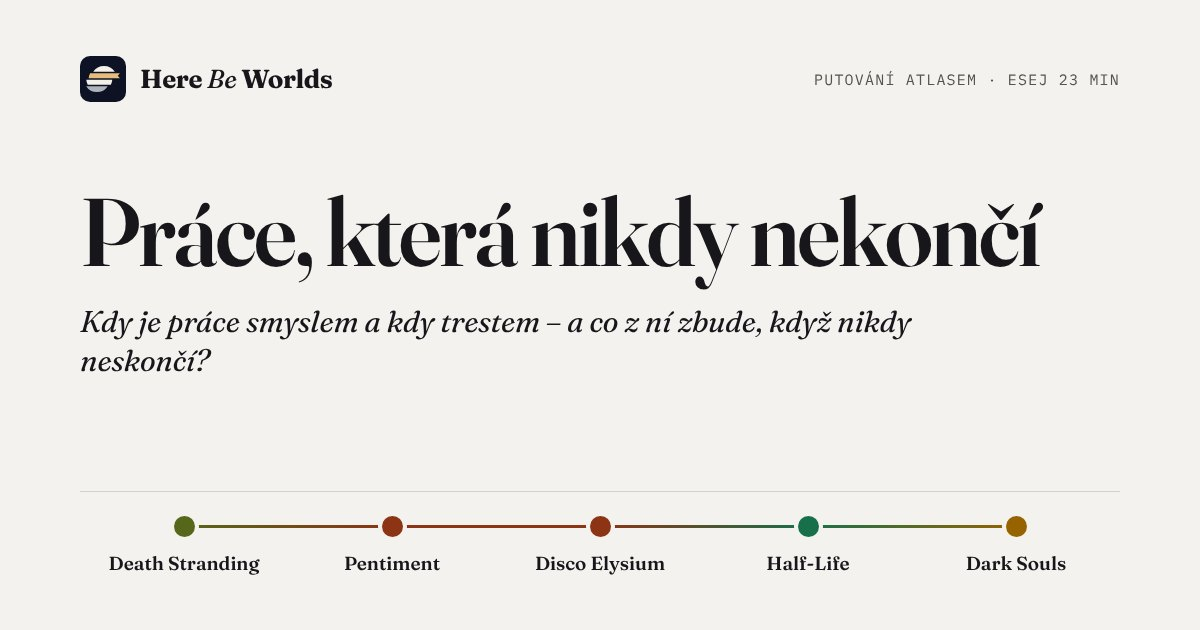
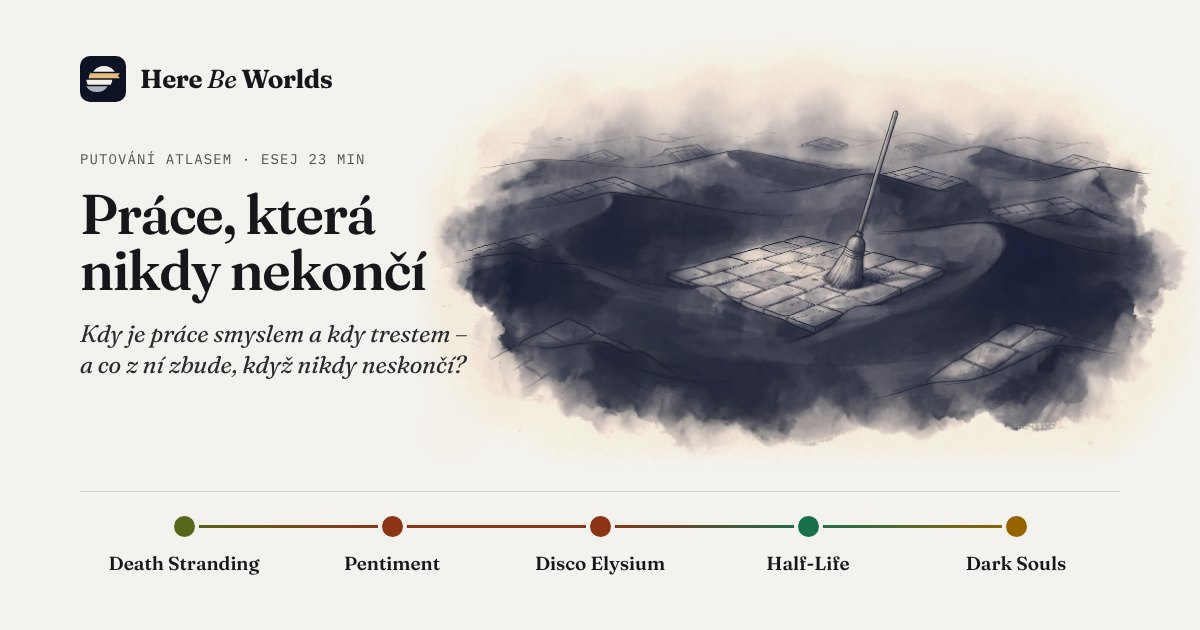
Obrázky k putování Práce, která nikdy nekončí: koště a zavátá dlažba, píchačky u hřbitova, balíky u rozpadlého domu; pravidlo o Mood a Composition u velkých scén
Claude-Session: https://claude.ai/code/session_01B7obWLKHHEWxurZ5a1svnf

diff --git a/src/lib/trail-images.ts b/src/lib/trail-images.ts
@@ -32,6 +32,7 @@ export const READY: Record<TrailId, number> = {
   laughter: 3,
   'chronicle-keepers': 3,
   copies: 3,
+  'endless-work': 3,
 };
 
 const DIR = 'putovani-obrazky';

diff --git a/docs/obrazky-putovani.md b/docs/obrazky-putovani.md
@@ -12,8 +12,9 @@ Stav 2026-11-23: styl nalezený po pěti kolech zkoušek (náhled `/putovani/nav
 - **Víc motivů k objevování:** hlavní tvar ať je složený z několika nečekaných předmětů, které člověk objeví až při delším pohledu (vzor: most z dlažby, kořenů, copů a šňůr s prádlem; majitel 2026-11-23). Jen když dávají jednomu tvaru smysl, nikdy jako výčet symbolů tématu.
 - **Zadání pro motivy: odvaha, surrealismus, silná myšlenka (majitel 2026-11-26, po Logu nad troskami, „zdaleka nejlepší série“):** motivy střídat a nebát se odvážných, i absurdních nápadů, i když se špatně převádějí do obrázku. Surrealisticky, ne doslovně; obraz má mít rafinovanost a silnou myšlenku, klidně i složitější. Majiteli se líbí satira a ironie. Co fungovalo: obyčejný, všem známý předmět nebo stavba na špatném místě nebo z nepatřičné látky, takže z něj je paradox, který se čte na první pohled (parkovací automaty místo náhrobků, atomový hřib jako kancelářská budova s trávníkem, mraky na provázku s cenovkou), a jedna velká čitelná silueta. Nevyšlo: guma (vypadala jako pilulka, vygumovaná půlka zůstala nakreslená) a razítko (otisk jako položená fotka). Gemini nezvládá změnu jednoho obrazu ve druhý na ploše, zvládá předmět na nečekaném místě.
 - **Styl neujíždět (majitel 2026-11-26, u Smíchu nad propastí):** styl držet podle série Logo nad troskami. Ve scéně nejmenovat barvy ani materiály (ne „červený provaz“, „rezavý stůl“, „lesklé balonky“, „mosazný zvonek“): Gemini je bere doslova a přebijí monochromní tuš. Scéna dvě až tři věty, hlavní tvar a jeden detail, ne výčet předmětů; dlouhá scéna táhne kresbu k čisté komiksové ilustraci a mlha mizí. Pokaždé nový chat a vždy stejný vzor `25-styl-vicko.jpg`, nikdy nový obrázek jako vzor. Pozor (majitel 2026-11-26 odpoledne, styl i barvy zase ujely): příčinou bylo, že Claude u každého promptu přepisoval i řádky Mood, Composition a Avoid (vlastní nálady, dlouhé seznamy zákazů včetně „cartoon, comic-book style…“, které Gemini spíš navedou). **Prompt je vždy přesně šablona z oddílu Jak generovat a mění se jen řádek Scene**; nálada se vyjádří uvnitř Scene, ne vlastním Mood.
+- **Mood a Composition u velkých scén (majitel 2026-11-26, Práce, která nikdy nekončí):** šablona v oddílu Jak generovat (Mood „jedna myšlenka nesená jedním malým předmětem“, Composition „detail nebo polocelek“) patří jen ke scénám s jedním předmětem. U velké scény (brána hřbitova s plotem, dům, krajina) psát Mood a Composition na míru jako u série Logo nad troskami, Style a Colour nikdy neměnit. Po nezdaru nepřidávat do scény další požadavky (ciferník bez ručiček, jedna díra v každé kartě, dva stojany…): scéna pak bývá horší; spíš se vrátit k nejjednodušší verzi, která fungovala.
 - **Neopakovat se, nečekaný znepokojivý detail (majitel 2026-11-25, u Prokletého dědictví):** napříč putováními se začaly opakovat stejné rekvizity (klíčky, zrcadla, obrazy, botičky, stopy) a majitel to zamítl: „chce to přijít s něčím nečekaným, a o to víc znepokojivým, musí tam být nějaký nečekaný moment, detail“. Vzor: kolébka s korunou, jejíž stín na zdi je rakev. Postup: obyčejný předmět (domácí, dětský, rodinný), který na první pohled nic nenaznačuje, a jediný detail, který ho na druhý pohled převrátí. Před návrhem motivů projít seznam níže a nesáhnout po ničem, co v něm už je; když se rekvizita přece jen hodí, říct to majiteli předem. Témata smějí být temná a zlověstná, bez krve a násilí (v promptu `Avoid: … gore`; u temných putování Mood „ominous surrealism … heavy with dread“ místo „quiet“).
-- **Už použité rekvizity (doplňovat po každém putování):** klíče a klíčové dírky (klíč stočený do kruhu, měsíc jako klíčová dírka) · zrcadla (rukavice a zrcátko, zamlžené zrcadlo) · obrazy a rámy (stín, který vypadl z obrazu) · boty a stopy (stopy ve sněhu, prázdné boty u žebříku) · prázdné oděvy (plášť na trůnu, kabát ukazující cestu, rukavice) · žebra a kosti jako stavivo (katedrála ze žeber, jablko se žebry) · trůny (plášť na trůnu, trůn s břízou) · knihy, deníky a dopisy (postavička z knihy, můra z deníku, dopisy z hlavy sochy, hranice srolovaných dopisů) · hodiny (kavalerie z rozbitých hodin) · světla (lucerna, svíčka, oheň u gramofonu) · koště a brky (koště z brků) · kouř (sirka z kouře, beránek z kouře) · nábytek a pokoje (křesla za sklem, okno s pokojem na pláni, koberec nad jámou) · stín jako odhalení (stín klíče, stín z obrazu, stín chapadel u pulce, stín rakve u kolébky) · ostatní: městečko na jevišti s roztrženým nebem, vajíčko ve vajíčku, kamenné víčko, domy otáčející se za chodcem, most z dlažby, kořenů, copů a prádla, prapory z hejn ptáků, kolotoč z děl, žebřík opřený o nebe, gramofon s hvězdami, sklenice s pulcem, mince na hraně, řetěz s dětským poutem, šperkovnice s mléčnými zuby, koleje a výhybka (smyčka jako oko), obojek s vodítkem do mraků, trhací kalendář s prázdnými listy, hostina v dunách, schodiště zpět do země, zazděný oblouk s pěšinou kolem, atomový hřib jako budova, parkovací automaty jako náhrobky, mraky na provázku s cenovkami, banánová slupka nad propastí, ostnatý plot s girlandami a balonky, úsměv na zamlženém okénku, socha s vyměnitelnou hlavou, stohy ze skartovaného papíru, psací stroj s papírovou cestou, dva měsíce s jedním odrazem, pampeliška z pampelišek, kohout vyměněný s korouhví (a kolébka v seznamu stínů). Zkoušené a zamítnuté u svobodné vůle: hrací skříňka s baletkou, kostka ve vzduchu, piliny s magnetem (třikrát nevyšlo), budka zatlučená zevnitř. U Ráje: hradby obrácené dovnitř (vyšel obyčejný hrad), maják na dně (vypadá jako zatopený katastrofou), ráj pod skleněným zvonem (vypadá jako sněžítko), fontána s pískem (písek vypadá jako voda), kryt s pentlí (dveře jako trezor z Falloutu). U Smíchu nad propastí: pochod natahovacích zubů a jednokolka na girlandě přes rokli (dobré, ale znovu skály a propast), čertík v krabičce (barevný), kartotéka s vesmírem (digitální jiskry), past s konfetami, plynová maska s úsměvem, socha v šaškovské čepici (komiks), přepážka v bouři (červený provaz), balonkový pes v pitevně (lesklý), hráz z gumových kachniček (výborná, záloha), roztržené šapitó, rakev s frkačkou (frkačka jako svitek), skákací hrad (věžičky jako rakety). U Kopie bez originálu: Thésseova loď (prkna nepoznat, hnědá), kopírka s řadou dubů (kopírka už byla u skartovačky), kukaččí vejce (klišé), roubovaná jabloň (přeplácaná), řetěz papírových postav, dva hroby (bez druhé vrstvy), otisky prstů, stožár s větví, sbírka motýlů, láhev s přístavem. U Kdo drží kroniku: mapa se skalpelem (kruhová díra), inkoust zpod archivu (teče z kopce, archiv nepoznat), archeologický řez pod slavností, pomník s vysekanou postavou, odloupnutá tapeta (jakoby na stropě), vykrajovátko na hrdiny (čistá ilustrace), pevnost z knih, puzzle s kladivem, brk nad bojištěm (silný, ale prázdný; verze s přilbami a vavřínem moc světlá). Styl ujížděl, když se do šablony přidal řádek navíc („loose sketch“): obraz zesvětlal; šablonu neměnit, jen řádek Scene. U Loga nad troskami: guma (pilulka), razítko (otisk jako fotka), mravenčí farma s byty (doslovná, záloha). Poučení (majitel 2026-11-25): u celků musí být paradox hlavní tvar a číst se na první pohled; nic ze skutečného světa (Vítězný oblouk z Paříže zamítnut).
+- **Už použité rekvizity (doplňovat po každém putování):** klíče a klíčové dírky (klíč stočený do kruhu, měsíc jako klíčová dírka) · zrcadla (rukavice a zrcátko, zamlžené zrcadlo) · obrazy a rámy (stín, který vypadl z obrazu) · boty a stopy (stopy ve sněhu, prázdné boty u žebříku) · prázdné oděvy (plášť na trůnu, kabát ukazující cestu, rukavice) · žebra a kosti jako stavivo (katedrála ze žeber, jablko se žebry) · trůny (plášť na trůnu, trůn s břízou) · knihy, deníky a dopisy (postavička z knihy, můra z deníku, dopisy z hlavy sochy, hranice srolovaných dopisů) · hodiny (kavalerie z rozbitých hodin) · světla (lucerna, svíčka, oheň u gramofonu) · koště a brky (koště z brků) · kouř (sirka z kouře, beránek z kouře) · nábytek a pokoje (křesla za sklem, okno s pokojem na pláni, koberec nad jámou) · stín jako odhalení (stín klíče, stín z obrazu, stín chapadel u pulce, stín rakve u kolébky) · ostatní: městečko na jevišti s roztrženým nebem, vajíčko ve vajíčku, kamenné víčko, domy otáčející se za chodcem, most z dlažby, kořenů, copů a prádla, prapory z hejn ptáků, kolotoč z děl, žebřík opřený o nebe, gramofon s hvězdami, sklenice s pulcem, mince na hraně, řetěz s dětským poutem, šperkovnice s mléčnými zuby, koleje a výhybka (smyčka jako oko), obojek s vodítkem do mraků, trhací kalendář s prázdnými listy, hostina v dunách, schodiště zpět do země, zazděný oblouk s pěšinou kolem, atomový hřib jako budova, parkovací automaty jako náhrobky, mraky na provázku s cenovkami, banánová slupka nad propastí, ostnatý plot s girlandami a balonky, úsměv na zamlženém okénku, socha s vyměnitelnou hlavou, stohy ze skartovaného papíru, psací stroj s papírovou cestou, dva měsíce s jedním odrazem, pampeliška z pampelišek, kohout vyměněný s korouhví, koště a zavátá dlažba v dunách, píchačky u hřbitova, balíky u rozpadlého domu (a kolébka v seznamu stínů). Zkoušené a zamítnuté u svobodné vůle: hrací skříňka s baletkou, kostka ve vzduchu, piliny s magnetem (třikrát nevyšlo), budka zatlučená zevnitř. U Ráje: hradby obrácené dovnitř (vyšel obyčejný hrad), maják na dně (vypadá jako zatopený katastrofou), ráj pod skleněným zvonem (vypadá jako sněžítko), fontána s pískem (písek vypadá jako voda), kryt s pentlí (dveře jako trezor z Falloutu). U Smíchu nad propastí: pochod natahovacích zubů a jednokolka na girlandě přes rokli (dobré, ale znovu skály a propast), čertík v krabičce (barevný), kartotéka s vesmírem (digitální jiskry), past s konfetami, plynová maska s úsměvem, socha v šaškovské čepici (komiks), přepážka v bouři (červený provaz), balonkový pes v pitevně (lesklý), hráz z gumových kachniček (výborná, záloha), roztržené šapitó, rakev s frkačkou (frkačka jako svitek), skákací hrad (věžičky jako rakety). U Práce, která nikdy nekončí: jehla sešívající trhlinu v zemi (dobrá, nevybraná), kancelářská židle s koulí na řetězu (klišé), kolo pro křečka nad městem, hora balíků se stromem (vánoční stromeček, levitující balíky), stopy k domu (klišé, stopy už máme), pluh na moři, zeď stavěná a rozpadající se, sekera obroušená na pahýl. Píchačky šly až napotřetí, když se scéna vrátila k nejjednodušší podobě. U Kopie bez originálu: Thésseova loď (prkna nepoznat, hnědá), kopírka s řadou dubů (kopírka už byla u skartovačky), kukaččí vejce (klišé), roubovaná jabloň (přeplácaná), řetěz papírových postav, dva hroby (bez druhé vrstvy), otisky prstů, stožár s větví, sbírka motýlů, láhev s přístavem. U Kdo drží kroniku: mapa se skalpelem (kruhová díra), inkoust zpod archivu (teče z kopce, archiv nepoznat), archeologický řez pod slavností, pomník s vysekanou postavou, odloupnutá tapeta (jakoby na stropě), vykrajovátko na hrdiny (čistá ilustrace), pevnost z knih, puzzle s kladivem, brk nad bojištěm (silný, ale prázdný; verze s přilbami a vavřínem moc světlá). Styl ujížděl, když se do šablony přidal řádek navíc („loose sketch“): obraz zesvětlal; šablonu neměnit, jen řádek Scene. U Loga nad troskami: guma (pilulka), razítko (otisk jako fotka), mravenčí farma s byty (doslovná, záloha). Poučení (majitel 2026-11-25): u celků musí být paradox hlavní tvar a číst se na první pohled; nic ze skutečného světa (Vítězný oblouk z Paříže zamítnut).
 - **Světlo:** výchozí je **čistě modrá tuš bez zlaté**. Zlatá (#E5BE7E) jen výjimečně, když ji řádek scény výslovně jmenuje a je jádrem motivu (klíčová dírka na nebi, oheň u gramofonu). Gemini jinak zlatou přidává sám (okénka, lucerny), protože ji má vzorový obrázek: proto prompt výslovně zakazuje převzít lampu ze vzoru (majitel 2026-11-23: „pořád stejné rozsvícené okýnko a lucerna“).
 - **Motiv:** detail nebo polocelek, ne velká scéna. Obraz s druhým čtením: na první pohled obyčejný, na druhý nese otázku eseje. Prázdný prostor kolem.
 - **Nikdy:** text, písmena, podpisy, rámečky; postavy, loga a místa z her; náboženské symboly; lidé (nanejvýš drobná postava zezadu, když to motiv potřebuje); cákance tuše; airbrush; uhlazená digitální linka.
@@ -25,7 +26,7 @@ Stav 2026-11-23: styl nalezený po pěti kolech zkoušek (náhled `/putovani/nav
 - Masky: `maska/<slug>-N.png` podle tuše pro tmavý motiv (`python3 scripts/ink-masks.py`, pak zkopírovat z `navrh-obrazku/maska/`, nebo upravit cestu ve skriptu), `maska/freska.png` obecná.
 - Které putování obrázky má: `READY` v `src/lib/trail-images.ts`. Obrázky se ukážou jen u schválené eseje.
 - Rejstřík `/putovani/` má rozvržení karet ve dvou sloupcích s obrázkem nahoře (C, vybráno ze tří variant: A obraz za textem, B střídavé desky). Obrázek v kartě je v obou motivech stejný: celý 16 : 9 bez ořezu, 90 % šířky karty, odstup nahoře a dole (majitel 2026-11-26); ve světlém motivu s maskou podle tuše (rozkreslené okraje jako v eseji), v tmavém jen fresková maska do ztracena. Dokud nemají obrázky všechna putování, stojí vedle karty s obrázkem textové karty.
-- Na webu (2026-11-23): Hra ví, že ji hraješ (městečko na jevišti s roztrženým namalovaným nebem; postavička vylezlá z ilustrace v knize; stín, který vypadl z obrazu na podlahu); Na mrtvole boha (tři: prázdný plášť na trůnu držený provazy davu; trůn, kterým prorůstá bříza; jablko s žebry místo jádřince); Netvor v zrcadle (zatím jeden: stopy ve sněhu, které se z bot mění v tlapy); Mluví už jen mrtví (tři: prázdný kabát, který ukazuje cestu; můra s křídly z deníku; potopená hlava sochy, z níž stoupají listy dopisu k loďce); Uvězněni v kruhu (tři: klíč stočený do kruhu se stínem rovného klíče; vajíčko ve vajíčku; z kouře dohořelé sirky nová sirka); Bohové jako břemeno (katedrála ze žeber, kamenné víčko); Město, které dýchá (domy, které se otáčejí za chodcem; most z dlažby, kořenů, copů a prádla); Dům, ze kterého nejde odejít (měsíc jako zlatá klíčová dírka nad městečkem, okno uprostřed pláně s pokojem uvnitř). Válka, kterou nikdo nevyhraje (tři obrázky: prapory z hejn ptáků, kolotoč z děl, kavalerie z rozbitých hodin se svíčkou v temnu); Pod lhostejnými hvězdami (žebřík opřený o nebe s prázdnými botami a lucernou, gramofon, ze kterého se sypou hvězdy, u táboráku); Kdo za to může? (tři: prázdná rukavice ukazuje na zrcátko a odraz ukazuje zpět na diváka; koberec, pod jehož rohem je jáma se schody a koště z brků; z hranice srolovaných dopisů odplouvá kouř jako spící beránek, 2026-11-25); Kdo se to probudil? (tři: zamlžené zrcadlo nad umyvadlem, v jehož setřeném pruhu je další zrcadlo; dvě stejná křesla v pokoji rozděleném sklem, které prochází mincí na hraně; sklenice s pulcem, jehož stín na zdi jsou chapadla; 2026-11-25); Prokleté dědictví (tři: kolébka s korunou, jejíž stín je rakev, křížek na koruně vyretušovaný; řetěz z praskliny v zemi s otevřeným dětským poutem, hnědý nádech řetězu převedený do indiga; šperkovnice s náhrdelníkem z mléčných zubů; 2026-11-25); Křehká hranice svobodné vůle (tři: koleje shora, které se u výhybky rozdělí a zase spojí kolem kulatého jezírka, takže tvoří oko; prázdný obojek s vodítkem napnutým do mraků; trhací kalendář s prázdnými listy, jeden právě utržený, původně k jinému tématu, majitel ho přidal; 2026-11-25); Ráj, který se nepovedl (tři, poprvé celky místo předmětu, na pokyn majitele velký motiv a paradox: monumentální schodiště, které se v oblouku vrací zpátky do země (titulní, majitel 2026-11-26); nekonečně dlouhý prostřený stůl v poušti, zavátý dunou; vymyšlený zazděný oblouk se sluncem, kolem jehož boku je v dlažbě vyšlapaná pěšina; 2026-11-25); Logo nad troskami (tři, satira: atomový hřib ztuhlý v kancelářskou budovu s otáčecími dveřmi a ostříhaným trávníkem v troskách; hřbitov, kde místo náhrobků stojí parkovací automaty; opuštěný vozík prodavače mraků na provázcích s prázdnými cenovkami pod holým nebem; 2026-11-26); Smích nad propastí (tři: banánová slupka na samé hraně útesu nad propastí; ostnatý plot se strážní věží vyzdobený girlandami a balonky, jeden balonek splasklý na ostnu; prstem nakreslený úsměv na zamlženém okénku bunkru, ze kterého stéká kondenzace; 2026-11-26); Kdo drží kroniku (tři, satira dějin: jezdecká socha bez hlavy, jeřáb spouští novou hlavu a vedle stojí regál s osmi různými náhradními hlavami; stohy na poli ze skartovaného papíru a skartovačka; psací stroj, jehož papír plynule přechází v cestu krajinou, s ukazatelem ve směru papíru (nakonec nová verze od majitele, kde papír na cestu navazuje sám); 2026-11-26); Kopie bez originálu (tři: dva stejné měsíce nad jezerem, které odráží jen jeden, uprostřed (odraz ručně nahrazený zrcadlenou kopií měsíce, aby seděl); pampeliška, od které místo semínek odlétají malé celé pampelišky a od nich ještě menší; živý kohout ztuhlý na korouhvi a tmavý nýtovaný plechový kohout s klouby v nohou zobající na dvoře (třetí verze, ve scéně tma a hustá mlha; korouhev se šipkou, bez ramen se světovými stranami; tuš sahala skoro k okraji a krémový lem v tmavém motivu prosvítal, proto má variantu pro tmavý motiv `kopie-bez-originalu-3-dark.jpg` s papírem u okraje přebarveným do mlhy; ve světlém motivu zůstává originál s maskou podle tuše. Obecně: obrázek může mít `<soubor>-dark.jpg`, `trail-images.ts` ho najde sám a esej ho ukáže jen v tmavém motivu); 2026-11-26). Postup: 5 motivů, vybrat 2. **Motivy: surrealismus a neobvyklé kompozice, klidně velké měřítko a zachycený pohyb (Magritte, Dalí), neobvyklé spojení předmětů (v duchu Magritta), jen lehce doslovné** — první kolo s doslovnými motivy (tapeta, dveře, kolébka) majitel zamítl jako nenápadité. Do promptu řádek `Mood: subtle surrealism in the spirit of Magritte: one unexpected combination, quiet and uncanny, never literal or explanatory. Rich in discoverable detail: several unexpected secondary motifs are woven into the main forms, so the viewer keeps finding new things on a second look.` Po přidání prvního obrázku obnovit kartu pro sdílení: `npm run og -- <slug> putovani` (fonty a Chromium viz CLAUDE.md). Masky: `python3 scripts/ink-masks.py public/putovani-obrazky/<slug>-1.jpg …`; když je světlý papír uprostřed součástí motivu (mezera mezi konci mostu), přidej `--fill`. Skript dělá dvě masky: `<soubor>.png` pro tmavý motiv a širokou `<soubor>-light.png` pro světlý (papír tam schová multiply a lehké vybělení `brightness(1.06) saturate(0.8)`, maska nesmí zamlžit slabé tahy; majitel 2026-11-23). Ve světlém motivu se v eseji kresba ořezává jen širokou maskou (fresková by ořízla tahy štětce nahoře a stopy u spodního okraje); v tmavém motivu (esej i rejstřík) jen fresková maska: tvar je vždy **zvlněný obdélník do ztracena**, nikdy vykrojený podle skvrn tuše (majitel 2026-11-23). Zkoušený okraj podle tahů štětce se světlým lemem majitel zamítl jako „příliš“: v tmavém motivu okraje nebudou tak působivé jako ve světlém a je to tak správně; v rejstříku zůstává i fresková (obrázek je tam oříznutý na 3 : 2).
+- Na webu (2026-11-23): Hra ví, že ji hraješ (městečko na jevišti s roztrženým namalovaným nebem; postavička vylezlá z ilustrace v knize; stín, který vypadl z obrazu na podlahu); Na mrtvole boha (tři: prázdný plášť na trůnu držený provazy davu; trůn, kterým prorůstá bříza; jablko s žebry místo jádřince); Netvor v zrcadle (zatím jeden: stopy ve sněhu, které se z bot mění v tlapy); Mluví už jen mrtví (tři: prázdný kabát, který ukazuje cestu; můra s křídly z deníku; potopená hlava sochy, z níž stoupají listy dopisu k loďce); Uvězněni v kruhu (tři: klíč stočený do kruhu se stínem rovného klíče; vajíčko ve vajíčku; z kouře dohořelé sirky nová sirka); Bohové jako břemeno (katedrála ze žeber, kamenné víčko); Město, které dýchá (domy, které se otáčejí za chodcem; most z dlažby, kořenů, copů a prádla); Dům, ze kterého nejde odejít (měsíc jako zlatá klíčová dírka nad městečkem, okno uprostřed pláně s pokojem uvnitř). Válka, kterou nikdo nevyhraje (tři obrázky: prapory z hejn ptáků, kolotoč z děl, kavalerie z rozbitých hodin se svíčkou v temnu); Pod lhostejnými hvězdami (žebřík opřený o nebe s prázdnými botami a lucernou, gramofon, ze kterého se sypou hvězdy, u táboráku); Kdo za to může? (tři: prázdná rukavice ukazuje na zrcátko a odraz ukazuje zpět na diváka; koberec, pod jehož rohem je jáma se schody a koště z brků; z hranice srolovaných dopisů odplouvá kouř jako spící beránek, 2026-11-25); Kdo se to probudil? (tři: zamlžené zrcadlo nad umyvadlem, v jehož setřeném pruhu je další zrcadlo; dvě stejná křesla v pokoji rozděleném sklem, které prochází mincí na hraně; sklenice s pulcem, jehož stín na zdi jsou chapadla; 2026-11-25); Prokleté dědictví (tři: kolébka s korunou, jejíž stín je rakev, křížek na koruně vyretušovaný; řetěz z praskliny v zemi s otevřeným dětským poutem, hnědý nádech řetězu převedený do indiga; šperkovnice s náhrdelníkem z mléčných zubů; 2026-11-25); Křehká hranice svobodné vůle (tři: koleje shora, které se u výhybky rozdělí a zase spojí kolem kulatého jezírka, takže tvoří oko; prázdný obojek s vodítkem napnutým do mraků; trhací kalendář s prázdnými listy, jeden právě utržený, původně k jinému tématu, majitel ho přidal; 2026-11-25); Ráj, který se nepovedl (tři, poprvé celky místo předmětu, na pokyn majitele velký motiv a paradox: monumentální schodiště, které se v oblouku vrací zpátky do země (titulní, majitel 2026-11-26); nekonečně dlouhý prostřený stůl v poušti, zavátý dunou; vymyšlený zazděný oblouk se sluncem, kolem jehož boku je v dlažbě vyšlapaná pěšina; 2026-11-25); Logo nad troskami (tři, satira: atomový hřib ztuhlý v kancelářskou budovu s otáčecími dveřmi a ostříhaným trávníkem v troskách; hřbitov, kde místo náhrobků stojí parkovací automaty; opuštěný vozík prodavače mraků na provázcích s prázdnými cenovkami pod holým nebem; 2026-11-26); Smích nad propastí (tři: banánová slupka na samé hraně útesu nad propastí; ostnatý plot se strážní věží vyzdobený girlandami a balonky, jeden balonek splasklý na ostnu; prstem nakreslený úsměv na zamlženém okénku bunkru, ze kterého stéká kondenzace; 2026-11-26); Kdo drží kroniku (tři, satira dějin: jezdecká socha bez hlavy, jeřáb spouští novou hlavu a vedle stojí regál s osmi různými náhradními hlavami; stohy na poli ze skartovaného papíru a skartovačka; psací stroj, jehož papír plynule přechází v cestu krajinou, s ukazatelem ve směru papíru (nakonec nová verze od majitele, kde papír na cestu navazuje sám); 2026-11-26); Kopie bez originálu (tři: dva stejné měsíce nad jezerem, které odráží jen jeden, uprostřed (odraz ručně nahrazený zrcadlenou kopií měsíce, aby seděl); pampeliška, od které místo semínek odlétají malé celé pampelišky a od nich ještě menší; živý kohout ztuhlý na korouhvi a tmavý nýtovaný plechový kohout s klouby v nohou zobající na dvoře (třetí verze, ve scéně tma a hustá mlha; korouhev se šipkou, bez ramen se světovými stranami; tuš sahala skoro k okraji a krémový lem v tmavém motivu prosvítal, proto má variantu pro tmavý motiv `kopie-bez-originalu-3-dark.jpg` s papírem u okraje přebarveným do mlhy; ve světlém motivu zůstává originál s maskou podle tuše. Obecně: obrázek může mít `<soubor>-dark.jpg`, `trail-images.ts` ho najde sám a esej ho ukáže jen v tmavém motivu); 2026-11-26); Práce, která nikdy nekončí (tři: zametený čtvereček dlažby uprostřed dun a kolem stejné čtverce zaváté pískem; tovární píchačky na pilíři hřbitovní brány se stojanem karet; polorozpadlý dům a u něj kopa nedoručených balíků; 2026-11-26). Postup: 5 motivů, vybrat 2. **Motivy: surrealismus a neobvyklé kompozice, klidně velké měřítko a zachycený pohyb (Magritte, Dalí), neobvyklé spojení předmětů (v duchu Magritta), jen lehce doslovné** — první kolo s doslovnými motivy (tapeta, dveře, kolébka) majitel zamítl jako nenápadité. Do promptu řádek `Mood: subtle surrealism in the spirit of Magritte: one unexpected combination, quiet and uncanny, never literal or explanatory. Rich in discoverable detail: several unexpected secondary motifs are woven into the main forms, so the viewer keeps finding new things on a second look.` Po přidání prvního obrázku obnovit kartu pro sdílení: `npm run og -- <slug> putovani` (fonty a Chromium viz CLAUDE.md). Masky: `python3 scripts/ink-masks.py public/putovani-obrazky/<slug>-1.jpg …`; když je světlý papír uprostřed součástí motivu (mezera mezi konci mostu), přidej `--fill`. Skript dělá dvě masky: `<soubor>.png` pro tmavý motiv a širokou `<soubor>-light.png` pro světlý (papír tam schová multiply a lehké vybělení `brightness(1.06) saturate(0.8)`, maska nesmí zamlžit slabé tahy; majitel 2026-11-23). Ve světlém motivu se v eseji kresba ořezává jen širokou maskou (fresková by ořízla tahy štětce nahoře a stopy u spodního okraje); v tmavém motivu (esej i rejstřík) jen fresková maska: tvar je vždy **zvlněný obdélník do ztracena**, nikdy vykrojený podle skvrn tuše (majitel 2026-11-23). Zkoušený okraj podle tahů štětce se světlým lemem majitel zamítl jako „příliš“: v tmavém motivu okraje nebudou tak působivé jako ve světlém a je to tak správně; v rejstříku zůstává i fresková (obrázek je tam oříznutý na 3 : 2).
 
 ## Jak generovat
 

diff --git a/CLAUDE.md b/CLAUDE.md
@@ -83,7 +83,7 @@ Kroniky a eseje **nejsou** v `data/`.
 | `/notes/` | `src/pages/notes/index.astro` | `NotesPage` — obsah oddílů (lepí se pod hlavičku, oddíl, který čteš, je podtržený; na telefonu jeden řádek posuvný do strany, 2026-11-25), rejstříkový seznam pojmů (štítek vlevo, výklad vpravo), legenda 1–5 jako pruh os; oddíly Charakter světa · Profil světa · Triáda (tři pojmy s odkazy do Anatomie a do Galerie triád / Mapy neznáma, pod nimi typy hříchů, dilemata, druhy tajemství a kdo drží mezeru s ikonami – texty z `triad-types.json`, 2026-11-24 se souhlasem majitele) · Příbuznost světů (4 pilíře, 5 stupňů slovy, bez procent) · Kompas a ladění · Hlubina času (2026-11-25 s pokynem majitele: šest pojmů – sloupec a hladina, období her a rysky, dějiny a fundamentální události, odhad, mýtus a cyklus, stupnice, naše časová osa – a odkaz na stránku; `noteDeepTime*`) · Kánon (texty v `data/meta/notes.ts`) |
 | `/anatomie-herniho-lore/` | `src/pages/anatomie-herniho-lore/index.astro` | `EssayPage` (obsah `ReadingToc` vlevo, čtecí sloupec jako kronika, doba čtení pod podtitulem) |
 | `/teoreticke-zazemi/` | `src/pages/teoreticke-zazemi/index.astro` | `EssayPage` z `content/essays/teoreticke-zazemi.md`: prameny atlasu po oblastech (fikční světy, fantastika, herní studia, hrůza a posvátno, mýtus, paměť, osoba a identita, moc a dohled, dílna tvůrců), tabulka pojmů, výhrady k autorům, co by sem ještě patřilo, seznam literatury. Odkaz z Anatomie (oddíl Na čem metoda stojí) a z patičky. **Po zapracování nové knihy doplnit i sem.** |
-| `/putovani/` | `src/pages/putovani/index.astro` | `TrailsIndex` (`src/components/trails/`, styly `trails.css`): hlavička jako atlas, filtry **Svět** a **Téma** (rozsvítí stezky, kterými svět prochází / které se tématu dotýkají, ostatní ztlumí; `?svet=<id>`, `?tema=<slug>`; klik na téma v řádku dělá totéž, jméno světa v kartě vede rovnou na spis světa (majitel 2026-11-24)); rejstřík 22 stezek jako **karty ve dvou sloupcích** (rozvržení C, majitel 2026-11-23; karta: obrázek nahoře přes celou šířku karty do ztracena, 3 : 2, pak název, popis, světy s linkou v barvě archetypu nad každým jménem, témata eseje jako hranaté štítky na tónovaném podkladu (vybrané téma v akcentu) = `themes` v `trails.ts`, 2–4 na stezku, a za nimi „Esej · N min“; karta bez obrázku je jen text; na telefonu jeden sloupec); oddíl **Kde se stezky kříží** (mřížka stezky × všechny světy podle abecedy, i ty na jediné stezce, vpravo počet (majitel 2026-11-22), tečka v barvě archetypu, pod kurzorem se rozsvítí sloupec i řádek, názvy stezek nahoře i dole; na telefonu seznam dvanácti nejvíc křížených světů). V hlavičce webu odkaz Putování hned za Atlasem; Putování dne na titulní straně vedou na stránky putování. Staré adresy `/stezky/…` přesměrovávají (`src/pages/stezky/`, `RedirectPage.astro`). Obrázky k putováním (jediné místo na webu s obrázky): styl a postup `docs/obrazky-putovani.md`, soubory `public/putovani-obrazky/`, seznam `READY` v `src/lib/trail-images.ts`; náhled v rejstříku (`TrailsIndex images`) a v eseji pod úvodním citátem a uprostřed (`EssayPage hero/hero2/heroLive`), okraj do ztracena maskou. Zatím Bohové jako břemeno, Dům, ze kterého nejde odejít, Pod lhostejnými hvězdami, Válka, kterou nikdo nevyhraje, Město, které dýchá, Uvězněni v kruhu, Mluví už jen mrtví, Netvor v zrcadle, Na mrtvole boha, Hra ví, že ji hraješ, Kdo za to může?, Kdo se to probudil?, Prokleté dědictví, Křehká hranice svobodné vůle, Ráj, který se nepovedl, Logo nad troskami, Smích nad propastí, Kdo drží kroniku a Kopie bez originálu. Zkušební náhled `/putovani/navrh-obrazku/` (noindex). |
+| `/putovani/` | `src/pages/putovani/index.astro` | `TrailsIndex` (`src/components/trails/`, styly `trails.css`): hlavička jako atlas, filtry **Svět** a **Téma** (rozsvítí stezky, kterými svět prochází / které se tématu dotýkají, ostatní ztlumí; `?svet=<id>`, `?tema=<slug>`; klik na téma v řádku dělá totéž, jméno světa v kartě vede rovnou na spis světa (majitel 2026-11-24)); rejstřík 22 stezek jako **karty ve dvou sloupcích** (rozvržení C, majitel 2026-11-23; karta: obrázek nahoře přes celou šířku karty do ztracena, 3 : 2, pak název, popis, světy s linkou v barvě archetypu nad každým jménem, témata eseje jako hranaté štítky na tónovaném podkladu (vybrané téma v akcentu) = `themes` v `trails.ts`, 2–4 na stezku, a za nimi „Esej · N min“; karta bez obrázku je jen text; na telefonu jeden sloupec); oddíl **Kde se stezky kříží** (mřížka stezky × všechny světy podle abecedy, i ty na jediné stezce, vpravo počet (majitel 2026-11-22), tečka v barvě archetypu, pod kurzorem se rozsvítí sloupec i řádek, názvy stezek nahoře i dole; na telefonu seznam dvanácti nejvíc křížených světů). V hlavičce webu odkaz Putování hned za Atlasem; Putování dne na titulní straně vedou na stránky putování. Staré adresy `/stezky/…` přesměrovávají (`src/pages/stezky/`, `RedirectPage.astro`). Obrázky k putováním (jediné místo na webu s obrázky): styl a postup `docs/obrazky-putovani.md`, soubory `public/putovani-obrazky/`, seznam `READY` v `src/lib/trail-images.ts`; náhled v rejstříku (`TrailsIndex images`) a v eseji pod úvodním citátem a uprostřed (`EssayPage hero/hero2/heroLive`), okraj do ztracena maskou. Zatím Bohové jako břemeno, Dům, ze kterého nejde odejít, Pod lhostejnými hvězdami, Válka, kterou nikdo nevyhraje, Město, které dýchá, Uvězněni v kruhu, Mluví už jen mrtví, Netvor v zrcadle, Na mrtvole boha, Hra ví, že ji hraješ, Kdo za to může?, Kdo se to probudil?, Prokleté dědictví, Křehká hranice svobodné vůle, Ráj, který se nepovedl, Logo nad troskami, Smích nad propastí, Kdo drží kroniku, Kopie bez originálu a Práce, která nikdy nekončí. Zkušební náhled `/putovani/navrh-obrazku/` (noindex). |
 | `/putovani/[id]/` | `src/pages/putovani/[id].astro` | Stránka každého putování, adresa = český slug z `TRAIL_SLUGS` (`trails.ts`), stejný jako soubor eseje v `content/trails/`. `EssayPage` s `trail`: pod hlavičkou `TrailCast` (světy) a `TrailThemes` (témata → `/putovani/?tema=`), před Zdroji `TrailWorlds` (souřadnice s výraznými názvy, seznam světů s archetypem a podžánrem). **Esej se ukáže jen s `approved: true` ve frontmatteru** (schvaluje majitel); jinak stránka ukáže rámeček „Esej připravujeme“, Světy putování a oddíl „Na čem putování stojí“ (jména pramenů z tabulky Prameny podle stezek v `docs/prameny/README.md`, `trailSources` v `src/lib/trail-pages.ts`). Neschválené eseje mají náhled `/putovani/navrh/<slug>/` (`noindex`, z webu na něj nic nevede). Schválené (2026-11-21): `na-mrtvole-boha`, `kdo-za-to-muze`, `kdo-se-to-probudil`, `netvor-v-zrcadle`, `mluvi-uz-jen-mrtvi`, `bohove-jako-bremeno`, `valka-kterou-nikdo-nevyhraje`, `proklete-dedictvi`, `krehka-hranice-svobodne-vule`, `uvezneni-v-kruhu`, `hra-vi-ze-ji-hrajes`, `raj-ktery-se-nepovedl`, `logo-nad-troskami`, `smich-nad-propasti`, `mesto-ktere-dycha`, `pod-lhostejnymi-hvezdami`, `kdo-drzi-kroniku`, `kopie-bez-originalu`, `dum-ze-ktereho-nejde-odejit`, `prace-ktera-nikdy-nekonci`, `jmeno-jako-klic-i-kletba`, `nakaza-s-vlastni-vuli` (všech 22). |
 | `/temata/` | `src/pages/temata/index.astro` | `ThemesIndex` (`src/components/themes/`, styly `themes.css`, 2026-11-24): pás hlavičky, řazení Podle abecedy / Podle počtu světů, rejstřík témat ve dvou sloupcích (název → stránka tématu, otázka kurzívou, otisk světů jako čtverečky v barvě archetypu, počet světů a putování) a **Kde se témata potkávají** (trojúhelníková mřížka téma × téma, kruh podle počtu světů s oběma tématy, prázdné šrafované, najetí rozsvítí řádek i sloupec a vypíše dvojici; na telefonu skrytá). |
 | `/temata/[slug]/` | `src/pages/temata/[slug].astro` | `ThemePage`, adresa = český název bez diakritiky (`themePageSlug` v `src/lib/themes.ts`). Hlavička v pásu: štítek „Téma“ (odkaz na rejstřík), název, otázka, „N světů · N archetypů · N putování“, vpravo **obloha z titulní strany v tuši** (`ThemeSky`; hvězdy na stejných místech díky `src/lib/sky.ts`, světy tématu rozsvícené v barvě archetypu a spojené přerušovanou nejkratší trasou, ostatní tlumeně; najetí na hvězdu ukáže jméno). Oddíly: **Světy** (záznamy ve třech sloupcích: linka v barvě archetypu, název, archetyp · podžánr, jádro kurzívou; najetí rozsvítí hvězdu) · **Podoba tématu** (Archetypy: řádek na archetyp, čtverečky = všechny jeho světy, plné = s tématem; Souřadnice: `AxisRange` s prázdným kosočtvercem průměru celého atlasu `reference`) · **Putování** (putování s tématem v `trails.ts` `themes`, první obrázek přes masku, otázka eseje, trasa světů, světy tématu tučně) · **Potkává se s** (šest témat nejčastěji ve stejných světech, `neighbourThemes`; není to příbuznost světů) · odkazy Otevřít v atlasu · Všechna témata. Podklady skládá při sestavení `src/lib/theme-pages.ts`. Odkazy na stránky témat: hledání (lupa), atlas (Další pohledy a „O tématu …“ pod počtem výsledků při filtru tématu), patička. Témata na kartě světa vedou na stránky témat (majitel 2026-11-24). |
